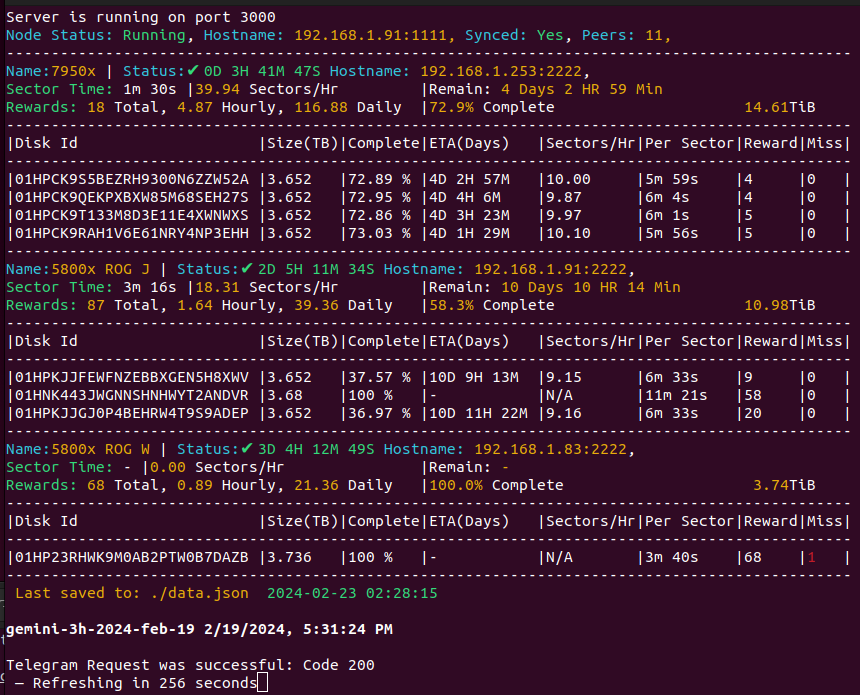
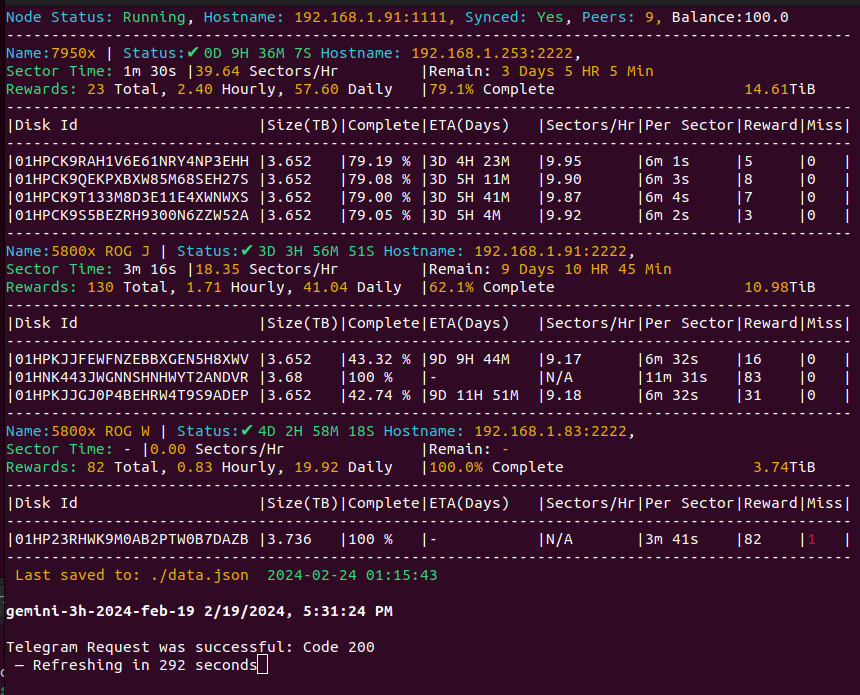
shows balance, and minor change

Changed region(s): [[0.0, 0.0, 0.9977, 1.0], [0.907, 0.3324, 0.9674, 0.3626]]

diff --git a/main.js b/main.js
@@ -63,7 +63,8 @@ app.get('/api/refresh', async (req , res) => {
       const jsonData = await readJsonData();
       res.render('index', { 
         nodeDisplayData: jsonData.nodeDisplayData, 
-        farmerDisplaySector: jsonData.farmerDisplaySector 
+        farmerDisplaySector: jsonData.farmerDisplaySector,
+        walletBalance: jsonData.walletBalance
       });
     } catch (error) {
       res.status(500).json({ error: 'Internal server error' });
